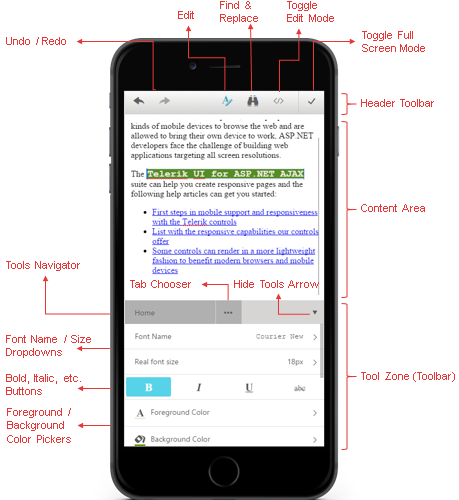
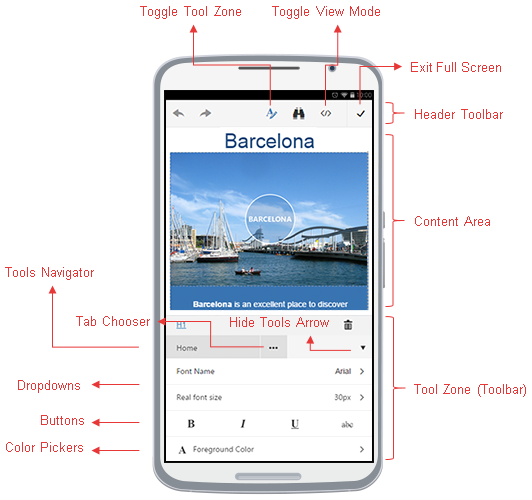
improve text and images of elements structure article of mobile editor

diff --git a/controls/editor/mobile-support/phone-layout/elements-structure.md b/controls/editor/mobile-support/phone-layout/elements-structure.md
@@ -10,40 +10,41 @@ position: 1
 
 # Phone Layout Elements Structure
 
-The mobile rendering of the RadEditor offers a specific UI for phone devices to get a better usability. You can find 
-the default elements structure of the mobile rendering in **Figure 1** and details on each element below it.
+You can find the default elements structure of the RadEditor with Phone Layout rendering in **Figure 1** and details on the phone specific elements below the figure.
 
->caption Figure 1: Elements Structure of RadEditor with Phone-optimized Mobile rendering. 
+>caption **Figure 1**: Elements Structure of RadEditor with Phone-optimized Mobile rendering. 
 
-![Mobile Editor Elements Structure](./images/mobile-editor-elements-structure.png)
+![Mobile Editor Elements Structure Edit Content Button](./images/mobile-editor-elements-structure-edit-button.png) ![Mobile Editor Elements Structure](./images/mobile-editor-elements-structure.png)
 
-* **Header Toolbar** - A basic toolbar, located on top of the editor. Can be customized.
+* **Header Toolbar** - A basic toolbar, located on top of the editor.
 
-	* **Undo / Redo** - Buttons for undo/redo content changes.
+	* **Edit Content** - A button that lets you start editing the content.
 	
-	* **Edit** - A button that opens/closes the ToolZone(Toolbar). You can use it to start/end formatting the selection or inserting HTML elements (e.g., hyperlinks, images, tables).
+	* **Toggle Tool Zone** - A button that opens/closes the Tool Zone(Toolbar). You can use it to start/end formatting the selection or inserting HTML elements (e.g., hyperlinks, images, tables).
 	
-	* **Find & Replace** - Opens the Find & Replace dialog.
+	* **Toggle View Mode** - A button that toggles between Design and HTML viewing modes.
 	
-	* **Toggle Edit Mode** - A button that toggles between Design and HTML viewing modes.
-	
-	* **Toggle Full Screen Mode** - A button that turns off the full screen mode. You can press it when finished with the content editing.
+	* **Exit Full Screen** - A button that turns off the full screen mode. You can press it when finished with the content editing.
 	
 * **Content Area** - The place which stores and displays the content to edit.
 
-* **ToolZone(Toolbar)** - The main toolbar used for formatting the selection and inserting HTML elements (e.g., hyperlinks, images, tables).
+* **Tool Zone(Toolbar)** - The main toolbar used for formatting the selection and inserting HTML elements (e.g., hyperlinks, images, tables).
 
 	* **Tools Navigator**
 	
-		* **Tab Chooser** - Navigator to different predefined set of tools (e.g, **Home**, **Insert**, **Table**, **Link**, **Image**). The **Insert** option opens the [mobile dialogs]({%slug editor/mobile-support/mobile-rendering/dialogs%}). The **Table**, **Link**, **Image** options display the property dialogs for the corresponding HTML element.
+		* **Tab Chooser** - Navigator to different predefined set of tools (e.g., **Home**, **Insert**, **Table**, **Link**, **Image**). The **Insert** option (**Figure 2**) opens a list with the [mobile dialogs]({%slug editor/mobile-support/mobile-rendering/dialogs%}). The **Table**, **Link**, **Image** options open mobile dialogs to configure attributes for the corresponding HTML element.
 		
-		* **Hide Tools Arrow** - Closes the current ToolZone.
+			>caption **Figure 2**: Navigation to the mobile Insert Dialogs of RadEditor with Phone Layout.
+			
+			![Mobile Editor Insert Dialogs](./images/AJAX_RadEditor_Adaptive_InsertMode_2in1.png)
+		
+		* **Hide Tools Arrow** - Closes the current Tool Zone and navigates to the previous tab.
 		
 	* **DropDowns** - Various dropdowns for selecting predefined font names/sizes, CSS classes, paragraph styles, etc.
 	
 	* **Buttons** - Various buttons for list, indent/outdent, align, bold, italic, underline, etc.
 	
-	* **Color Pickers** - Mobile color pickers to control the foreground, background and border colors of HTML elements. You can modify the color pickers palette through the PhoneLayoutTools.xml file.
+	* **Color Pickers** - Mobile color pickers to control the foreground, background and border colors of HTML elements.
 
 You can find the full description of all the tools from the toolbar in the [Toolbars Overview]({%slug editor/functionality/toolbars/overview%}) article. You can also customize the default toolbar of the mobile editor as per the [Phone Layout ToolBar Configuration]({%slug editor/mobile-support/mobile-rendering/toolbar-configuration%}) article.
 
